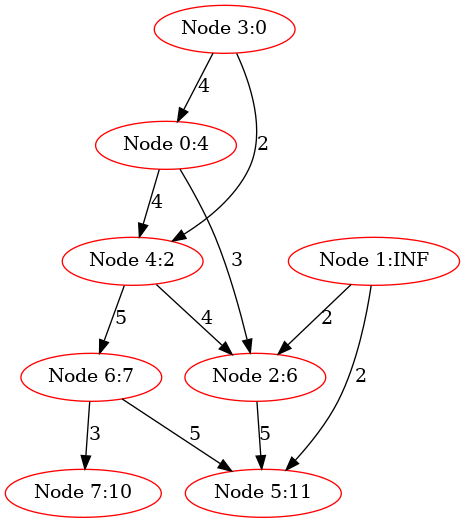
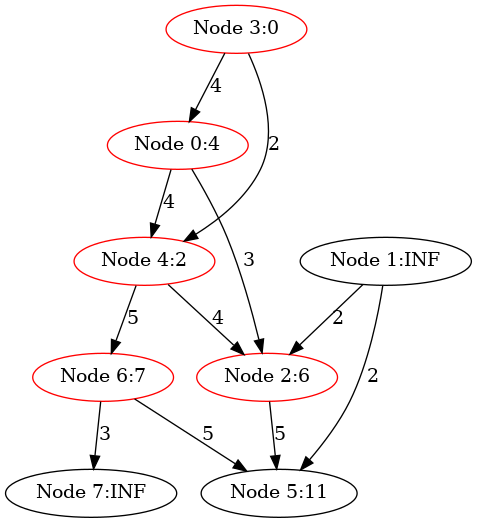
Update Tutorials/Week7

diff --git a/Tutorials/Week7/src/Graph.c b/Tutorials/Week7/src/Graph.c
@@ -371,14 +371,20 @@ void Dijkstra(struct Graph *pGraph, long startNodeId) {
         cnt++;
         GenOneImage(pGraph, "Dijkstra", "images/Dijkstra", cnt, visited);
 
+        int changed = 0;
         for (long v = 0; v < pGraph->n; v++) {
             if (!visited[v] && MatrixElement(pGraph, u, v) != 0 && distances[u] != INFINITY_VALUE) {
                 if (distances[u] + MatrixElement(pGraph, u, v) < distances[v]) {
                     printf("Updating distances[%ld]: %ld --> ... --> %ld --> %ld; distance from %ld to %ld is %ld\n\n", v, 
                             startNodeId, u, v, u, v,(long) MatrixElement(pGraph, u, v));
                     distances[v] = distances[u] + MatrixElement(pGraph, u, v);
+                    changed = 1;
                 }
             }
+        }
+        if (changed) {
+            cnt++;
+            GenOneImage(pGraph, "Dijkstra", "images/Dijkstra", cnt, visited);
         }
         PrintDistancesAndVisited(pGraph, distances, visited, NULL);
     }

diff --git a/Tutorials/Week7/README.md b/Tutorials/Week7/README.md
@@ -134,7 +134,7 @@ Shortest path from node 3 to node 7: 10
 Observe the procedure of Dijkstra's algorithm (starting from the node 3) via 'make view'
 ```sh
 Week7$ make view
-find . -name "*.png" | sort | xargs feh &
+find . -name "*.png" | sort | xargs feh -g 720x540 &
 ```
 
 **Click on the window of 'feh' or use your mouse scroll wheel to view images**.
@@ -147,24 +147,38 @@ Here, **feh** is an image viewer available in [CSE VLAB](https://vlabgateway.cse
 | <img src="images/Dijkstra_0000.png" width="50%" height="50%"> |  
 
 
-| Step 1 | Step 2  |
+| Step 1 |   |
 |:-------------:|:-------------:|
 | <img src="images/Dijkstra_0001.png" width="50%" height="50%"> |  <img src="images/Dijkstra_0002.png" width="50%" height="50%"> | 
 
-
-
-|Step 3 | Step 4 |
+| Step 2 |   |
 |:-------------:|:-------------:|
-|<img src="images/Dijkstra_0003.png" width="50%" height="50%"> | <img src="images/Dijkstra_0004.png" width="50%" height="50%"> | 
+| <img src="images/Dijkstra_0003.png" width="50%" height="50%"> |  <img src="images/Dijkstra_0004.png" width="50%" height="50%"> | 
 
-
-| Step 5 | Step 6|
+|Step 3 | |
 |:-------------:|:-------------:|
-| <img src="images/Dijkstra_0005.png" width="50%" height="50%"> |  <img src="images/Dijkstra_0006.png" width="50%" height="50%"> | 
+|<img src="images/Dijkstra_0005.png" width="50%" height="50%"> |  |
 
-| Step 7 | Step 8 |
+|Step 4 | |
 |:-------------:|:-------------:|
-| <img src="images/Dijkstra_0007.png" width="50%" height="50%"> | <img src="images/Dijkstra_0008.png" width="50%" height="50%"> | 
+|<img src="images/Dijkstra_0006.png" width="50%" height="50%"> | <img src="images/Dijkstra_0007.png" width="50%" height="50%"> | 
+
+
+| Step 5 | |
+|:-------------:|:-------------:|
+| <img src="images/Dijkstra_0008.png" width="50%" height="50%"> |  <img src="images/Dijkstra_0009.png" width="50%" height="50%"> |
+
+| Step 6 | |
+|:-------------:|:-------------:|
+| <img src="images/Dijkstra_0010.png" width="50%" height="50%"> |   |
+
+| Step 7 |  |
+|:-------------:|:-------------:|
+| <img src="images/Dijkstra_0011.png" width="50%" height="50%"> | | 
+
+| Step 8 |  |
+|:-------------:|:-------------:|
+| <img src="images/Dijkstra_0012.png" width="50%" height="50%"> |  |
 
 ### 3.3 More details
 
@@ -444,6 +458,7 @@ static long getNodeIdWithMinDistance(AdjMatrixElementTy *distances, int *visited
     return minIndex;
 }
 
+
 void Dijkstra(struct Graph *pGraph, long startNodeId) {
     assert(IsLegalNodeNum(pGraph, startNodeId));
 
@@ -465,7 +480,7 @@ void Dijkstra(struct Graph *pGraph, long startNodeId) {
     distances[startNodeId] = 0;
     // Find the shortest distances
     for (long i = 0; i < pGraph->n; i++) {
-        printf("------------------------------------------ Step %ld ------------------------------------------\n\n", i+1);
+        printf("============================================== Step %ld ==============================================\n\n", i+1);
         long u = getNodeIdWithMinDistance(distances, visited, pGraph->n);
         PrintDistancesAndVisited(pGraph, distances, visited, NULL);
 
@@ -475,14 +490,20 @@ void Dijkstra(struct Graph *pGraph, long startNodeId) {
         cnt++;
         GenOneImage(pGraph, "Dijkstra", "images/Dijkstra", cnt, visited);
 
+        int changed = 0;
         for (long v = 0; v < pGraph->n; v++) {
             if (!visited[v] && MatrixElement(pGraph, u, v) != 0 && distances[u] != INFINITY_VALUE) {
                 if (distances[u] + MatrixElement(pGraph, u, v) < distances[v]) {
                     printf("Updating distances[%ld]: %ld --> ... --> %ld --> %ld; distance from %ld to %ld is %ld\n\n", v, 
                             startNodeId, u, v, u, v,(long) MatrixElement(pGraph, u, v));
                     distances[v] = distances[u] + MatrixElement(pGraph, u, v);
+                    changed = 1;
                 }
             }
+        }
+        if (changed) {
+            cnt++;
+            GenOneImage(pGraph, "Dijkstra", "images/Dijkstra", cnt, visited);
         }
         PrintDistancesAndVisited(pGraph, distances, visited, NULL);
     }
@@ -502,6 +523,7 @@ void Dijkstra(struct Graph *pGraph, long startNodeId) {
 
     free(visited); 
 }
+
 ```
 
 
